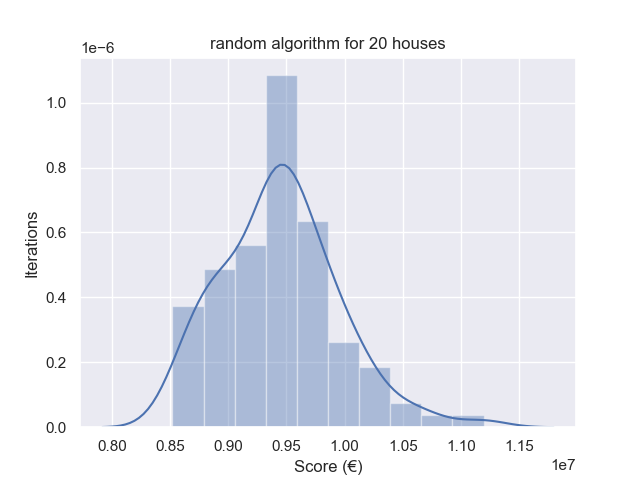
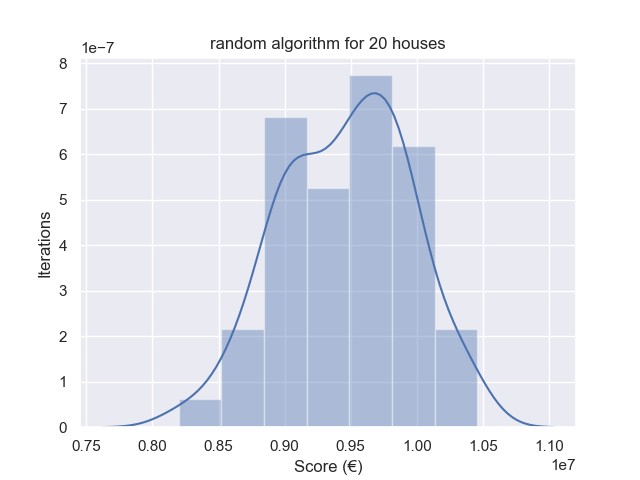
location update

diff --git a/code/helpers/location.py b/code/helpers/location.py
@@ -13,8 +13,6 @@ Jop Rijksbaron, Robin Spiers & Vincent Kleiman
 def location_checker(house, neighbourhood):
     # vertical wall check - horizontal wall check - inside check
     mindistance= []
-    vert = list(range(house.y0, house.y1))
-    horz = list(range(house.x0, house.x1))
     for i in neighbourhood:
         if i.name == "WATER":
             horzWater = list(range(i.x0, i.x1))
@@ -28,14 +26,14 @@ def location_checker(house, neighbourhood):
             elif (house.x1 in horzWater and house.y1 in vertWater):
                 return False     
         else:
-            if (house.x0 -2 <= i.x0 and house.x1+2 >= i.x0) or (house.x0-2 <= i.x1 and house.x1+2 >= i.x1):
-                if (house.y0-2 <= i.y0 and house.y1+2 >= i.y0) or (house.y0-2 <= i.y1 and house.y1+2 >= i.y1):
+            if (house.x0 -1 <= i.x0 and house.x1+1 >= i.x0) or (house.x0-1 <= i.x1 and house.x1+1 >= i.x1):
+                if (house.y0-1 <= i.y0 and house.y1+1 >= i.y0) or (house.y0-1 <= i.y1 and house.y1+1 >= i.y1):
                     return False
-            if i.y0 in vert or i.y1 in vert:
+            if (house.y0-1 <= i.y0 and house.y1+1 >= i.y0) or (house.y0-1 <= i.y1 and house.y1+1 >= i.y1):
                 min_distance = min([abs(house.x0-i.x1),abs(house.x1-i.x0),abs(house.x1-i.x1),abs(house.x0-i.x0)])   
                 if house.free_area > abs(min_distance) or i.free_area > abs(min_distance): #absolute omdat anders negatieve afstanden
                     return False
-            elif i.x0 in horz or i.x1 in horz:
+            elif (house.x0 -1 <= i.x0 and house.x1+1 >= i.x0) or (house.x0-1 <= i.x1 and house.x1+1 >= i.x1):
                 min_distance = min([abs(house.y0-i.y1),abs(house.y1-i.y0),abs(house.y1-i.y1),abs(house.y0-i.y0)])         
                 if house.free_area > abs(min_distance) or i.free_area > abs(min_distance): #absolute omdat anders negatieve afstanden
                     return False

diff --git a/code/algorithms/random.py b/code/algorithms/random.py
@@ -47,7 +47,7 @@ def random_algorithm(iterations, water_layout, max_houses):
     df_random.to_csv("results/" + str(iterations) + "-" + str(max_houses) + "-random.csv")
 
     # make a visualisation of the best random neighbourhood and save it as an image
-    visualise(best, highest_score, "random_visualisation-"+ str(max_houses))
+    visualise(best, score, "random_visualisation-"+ str(max_houses))
 
     # make a plot of the algorithms performance
     performanceplot("random", max_houses, "dist", df_random.score)
